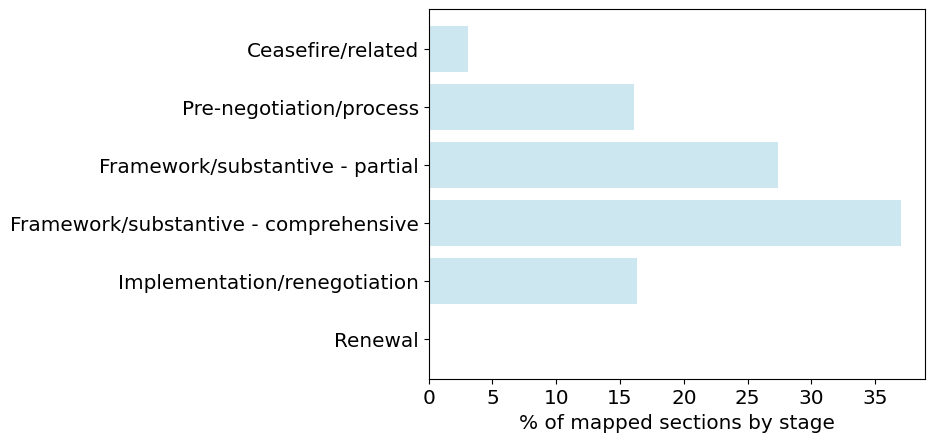
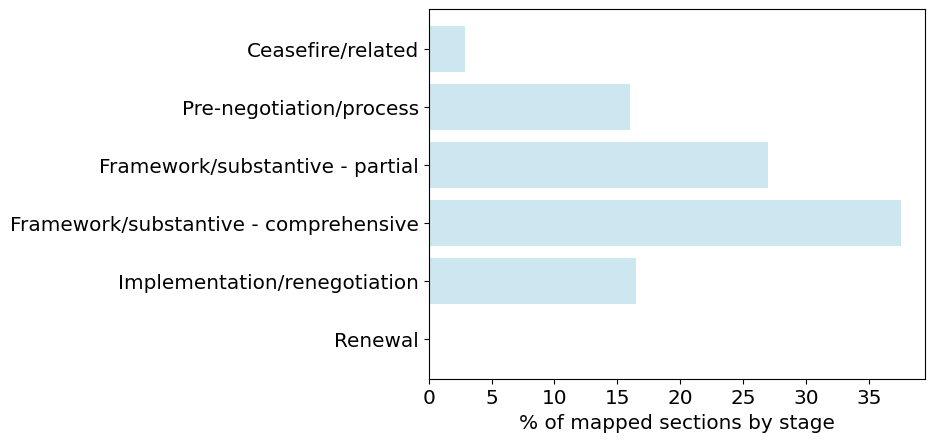
Updates based on refactoring
Semantic mapping code was refactored for speed, logic, and clarity.

diff --git a/stages.html b/stages.html
@@ -17,14 +17,14 @@
 				There are 1447 agreements in the mapping analysis. Of these 1447 agreements, 1080 precede an in-force constitution.
 			</p>
 			<p>
-				Of the 1080 agreements that precede an in-force constitution, 518 contain provisions that map onto sections of the constitution. These 518 agreements are referred to as mapping agreements. 
-				The remaining 562 agreements are the non-mapping agreements.
+				Of the 1080 agreements that precede an in-force constitution, 481 contain provisions that map onto sections of the constitution. These 481 agreements are referred to as mapping agreements. 
+				The remaining 599 agreements are the non-mapping agreements.
 			</p>
 		</div>
 		<div>
 			<div>
 				<p>
-				Plot 1 below shows the distribution over stages of the 562 non-mapping agreements.
+				Plot 1 below shows the distribution over stages of the 599 non-mapping agreements.
 				</p>
 			</div>
 			<div id="plot_1">
@@ -35,7 +35,7 @@
 		<div>
 			<div>
 				<p>
-				Plot 2 below shows the distribution over stages of the 518 mappping agreements. Pearson's correlation coefficient for plots 1 and 2 is 0.55 with a p-value of 0.26.
+				Plot 2 below shows the distribution over stages of the 481 mappping agreements. Pearson's correlation coefficient for plots 1 and 2 is 0.56 with a p-value of 0.25.
 				</p>
 			</div>
 			<div id="plot_2">
